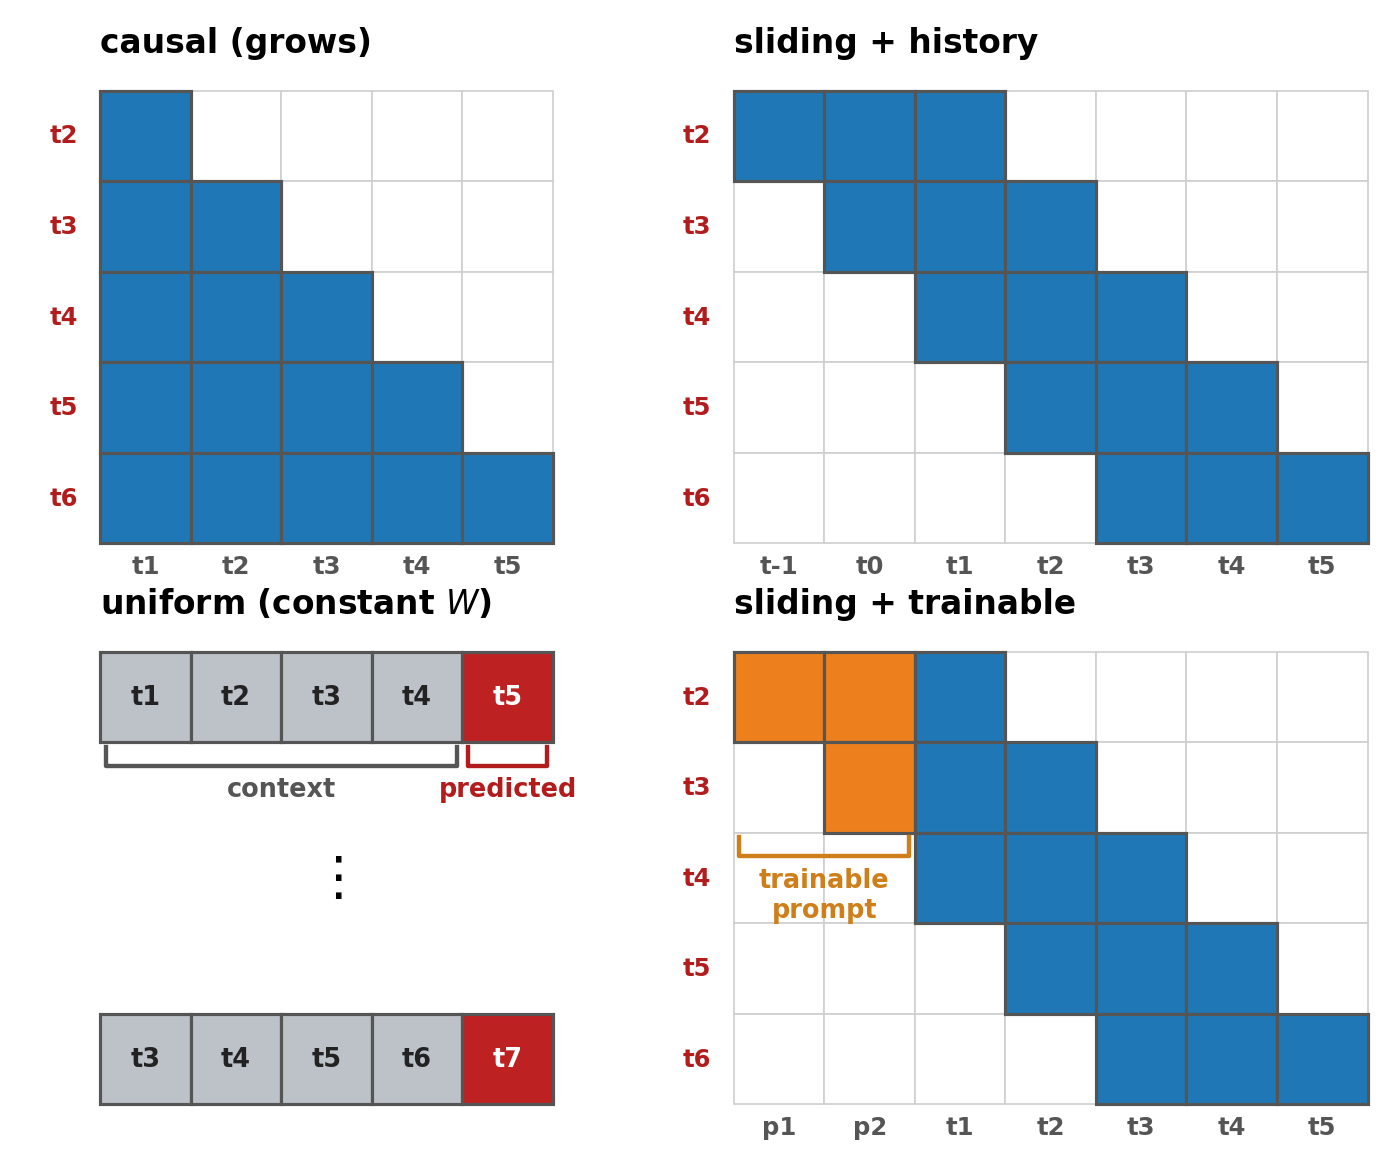
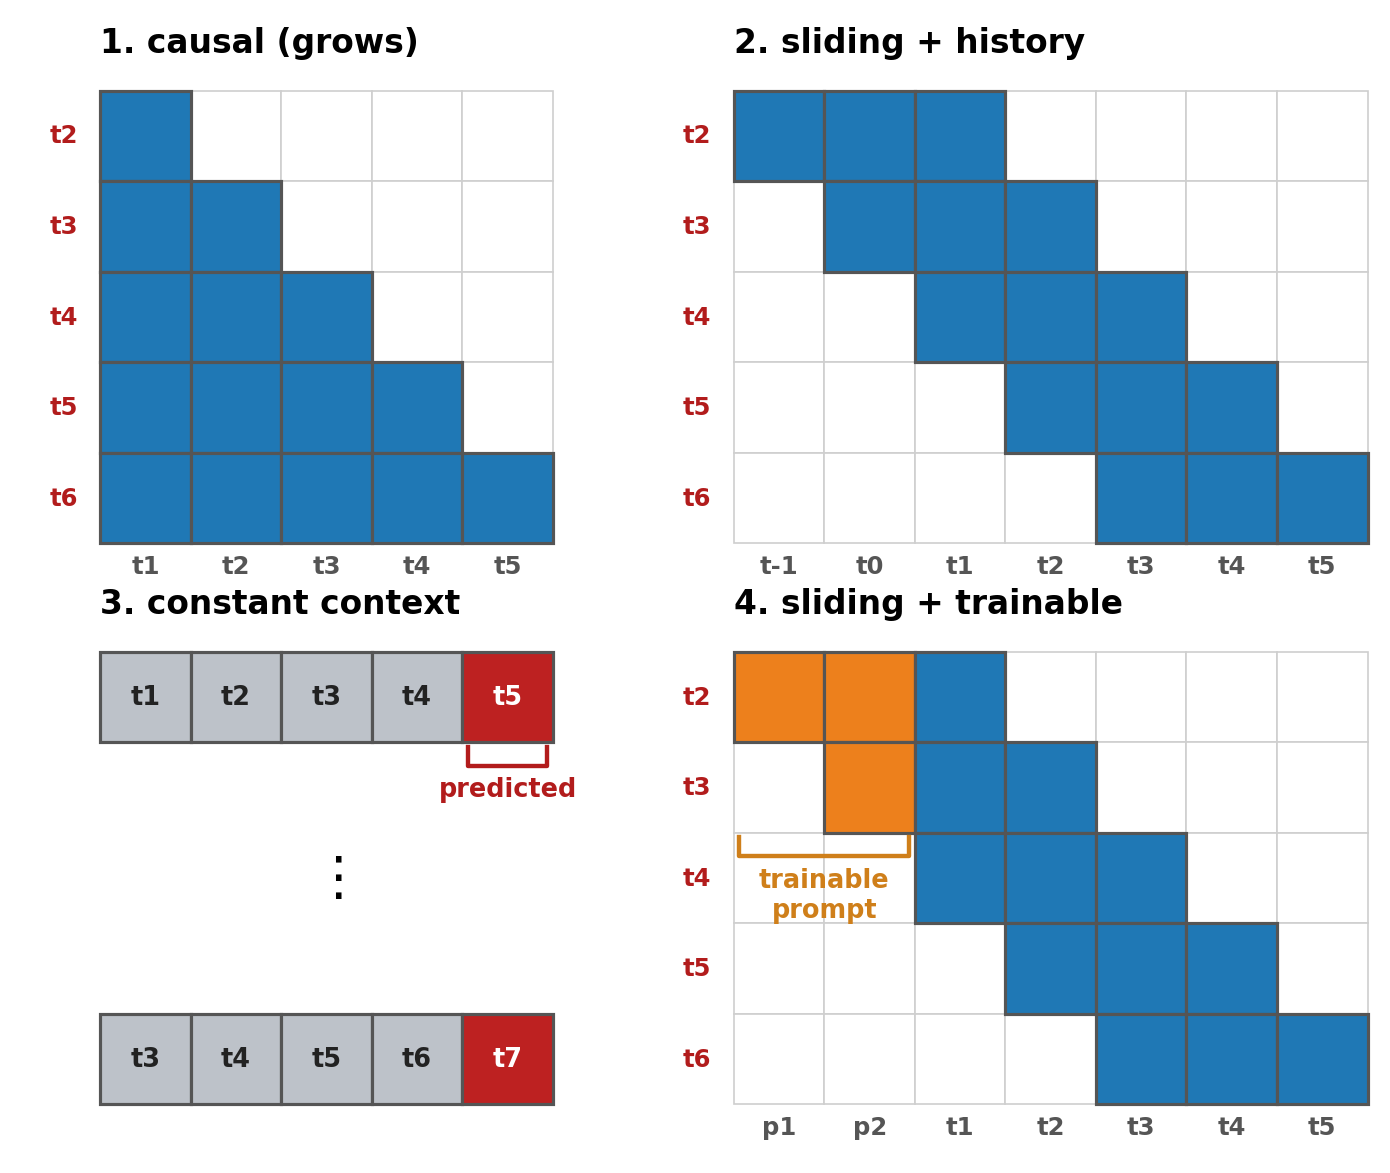
paper fig: number panel titles 1-4; rename uniform panel to 'constant context'; drop its context bracket (keep predicted)

diff --git a/experiments/07_autoresearch_sink/scripts/make_windowed_attention_fig.py b/experiments/07_autoresearch_sink/scripts/make_windowed_attention_fig.py
@@ -26,15 +26,15 @@ def attn(ox,oy,title,fill,xlabels):
         YL(ox-.25,oy+r,PRED[r],PRD)
     for c,t in enumerate(xlabels): XL(ox+c,oy+5+.12,t,CTX)
 # CAUSAL (content side only, 5x5)  -- left col, top
-ox,oy=0,0; TT(ox,oy-.35,"causal (grows)")
+ox,oy=0,0; TT(ox,oy-.35,"1. causal (grows)")
 for r in range(5):
     for c in range(5): (Cl(ox+c,oy+r,CONTENT) if c<=r else Em(ox+c,oy+r))
     YL(ox-.25,oy+r,PRED[r],PRD)
 for c,t in enumerate(["t1","t2","t3","t4","t5"]): XL(ox+c,oy+5+.12,t,CTX)
 # SLIDING+HISTORY  -- right col, top
-attn(7.0,0,"sliding + history",HISTC,["t-1","t0","t1","t2","t3","t4","t5"])
+attn(7.0,0,"2. sliding + history",HISTC,["t-1","t0","t1","t2","t3","t4","t5"])
 # UNIFORM (NOT attention) -- two example sequences shifted along the stream + vertical dots = stacking dataset
-ox,oy=0,6.2; TT(ox,oy-.35,"uniform (constant $W$)")
+ox,oy=0,6.2; TT(ox,oy-.35,"3. constant context")
 def useq(sx,ry,toks):           # 5-length predict-last sequence; tokens by ABSOLUTE position; labels INSIDE cells
     for c in range(4):
         Cl(ox+sx+c,ry,GREY); ax.text(ox+sx+c+.5,ry+.5,toks[c],fontsize=10.5,fontweight="bold",ha="center",va="center",color="#222")
@@ -43,13 +43,12 @@ useq(0,6.2,["t1","t2","t3","t4","t5"])      # top seq aligns with the right pane
 ax.text(ox+2.5,8.7,r"$\vdots$",fontsize=22,fontweight="bold",ha="center",va="center")
 useq(0,10.2,["t3","t4","t5","t6","t7"])     # bottom seq aligns with bottom row; numbers shifted
 # SLIDING+TRAINABLE -- right col, bottom
-attn(7.0,6.2,"sliding + trainable",PROMPT,["p1","p2","t1","t2","t3","t4","t5"])
+attn(7.0,6.2,"4. sliding + trainable",PROMPT,["p1","p2","t1","t2","t3","t4","t5"])
 # no legend: label context / predicted / trainable prompt with brackets under the example cells
 def brace(x0,x1,label,ytop,col):
     yb=ytop+0.26
     ax.plot([x0+.06,x0+.06,x1-.06,x1-.06],[ytop+.05,yb,yb,ytop+.05],color=col,lw=1.8,zorder=5)
     ax.text((x0+x1)/2,yb+.12,label,fontsize=10.5,fontweight="bold",ha="center",va="top",color=col)
-brace(0,4,"context",7.2,"#555")                  # grey cells of TOP uniform seq
 brace(4,5,"predicted",7.2,"#b21c1c")             # crimson cell of TOP seq
 brace(7.0,9.0,"trainable\nprompt",8.2,"#cf7f1a")    # under the ->t3 row (p1,p2 prompt columns)
 ax.set_xlim(-1.05,14.2); ax.set_ylim(11.9,-0.95)
